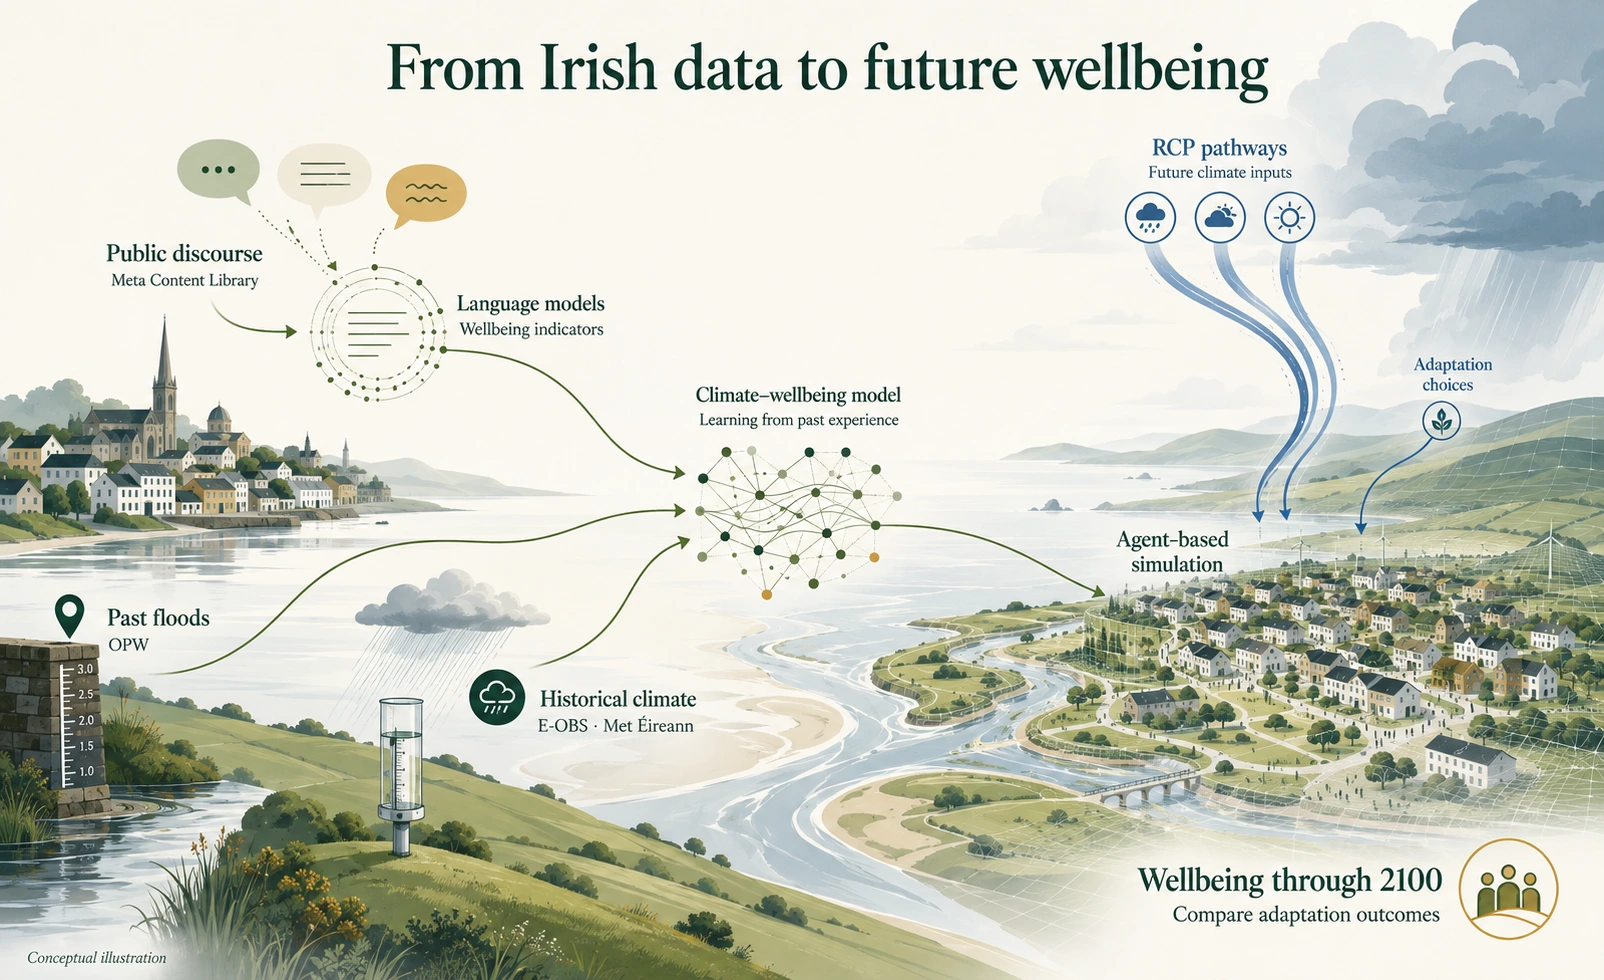
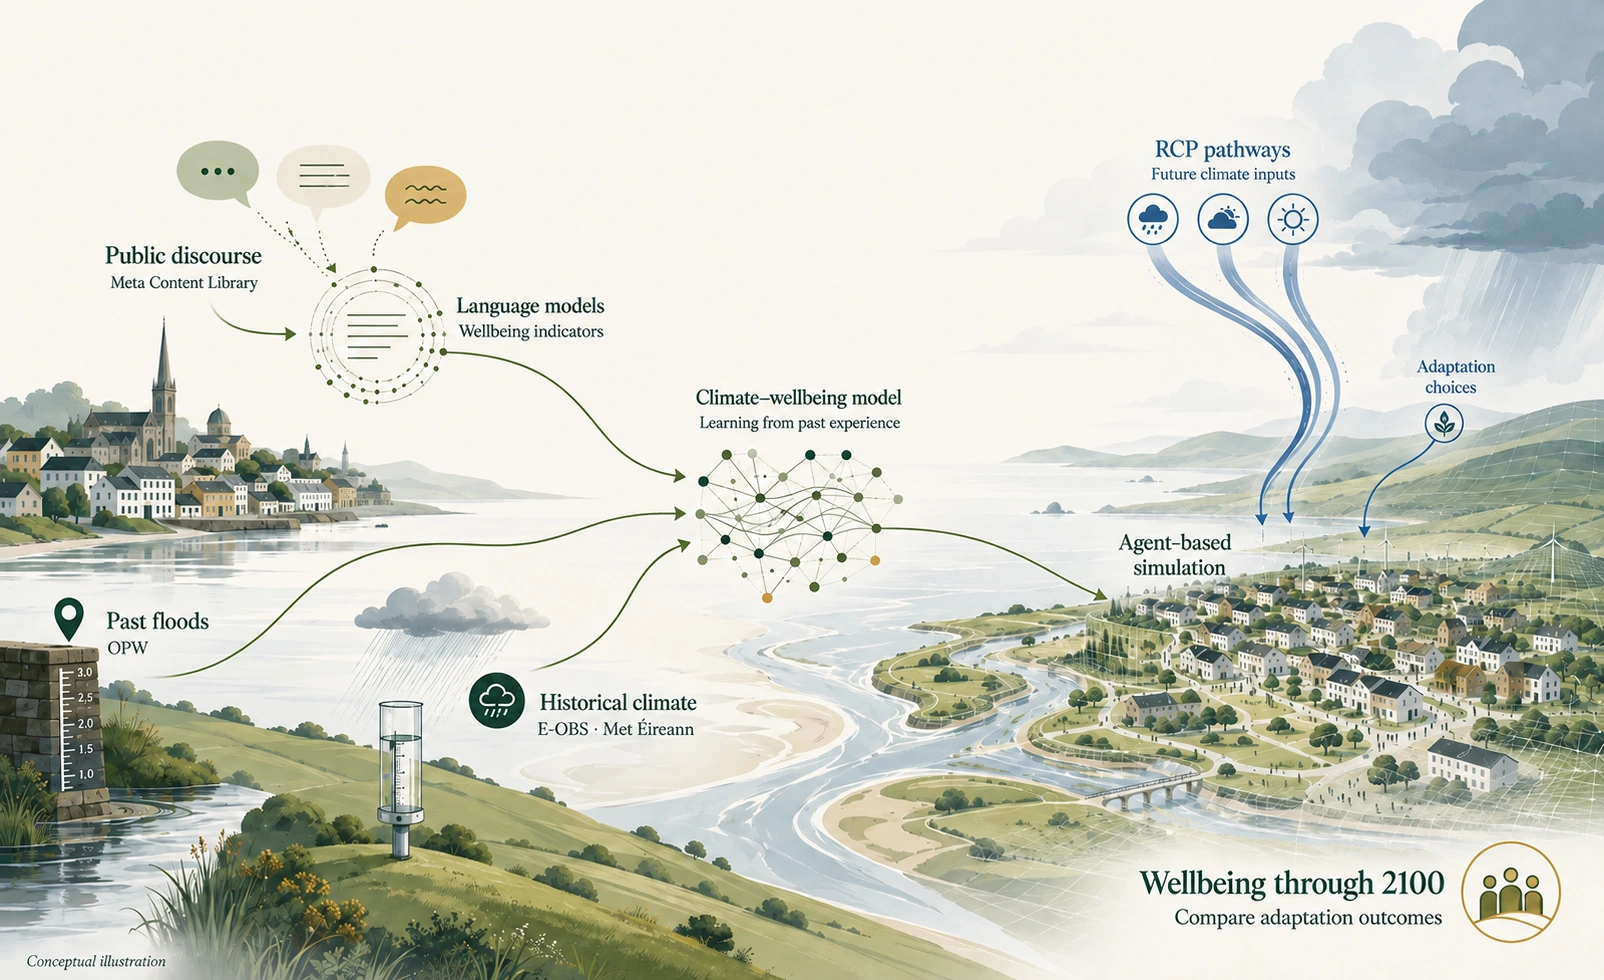
Remove headline from Data landscape illustration

diff --git a/pages/data-source.html b/pages/data-source.html
@@ -117,7 +117,7 @@
 
     <figure class="figure">
       <img src="../images/data-landscape.webp" width="1604" height="980"
-           alt="From Irish data to future wellbeing. Meta Content Library public
+           alt="Meta Content Library public
                 discourse is analysed by language models to extract wellbeing
                 indicators. These indicators, OPW past flood records and E-OBS
                 and Met Éireann historical climate data inform the

diff --git a/_partials/data-source.html b/_partials/data-source.html
@@ -65,7 +65,7 @@
 
     <figure class="figure">
       <img src="../images/data-landscape.webp" width="1604" height="980"
-           alt="From Irish data to future wellbeing. Meta Content Library public
+           alt="Meta Content Library public
                 discourse is analysed by language models to extract wellbeing
                 indicators. These indicators, OPW past flood records and E-OBS
                 and Met Éireann historical climate data inform the
